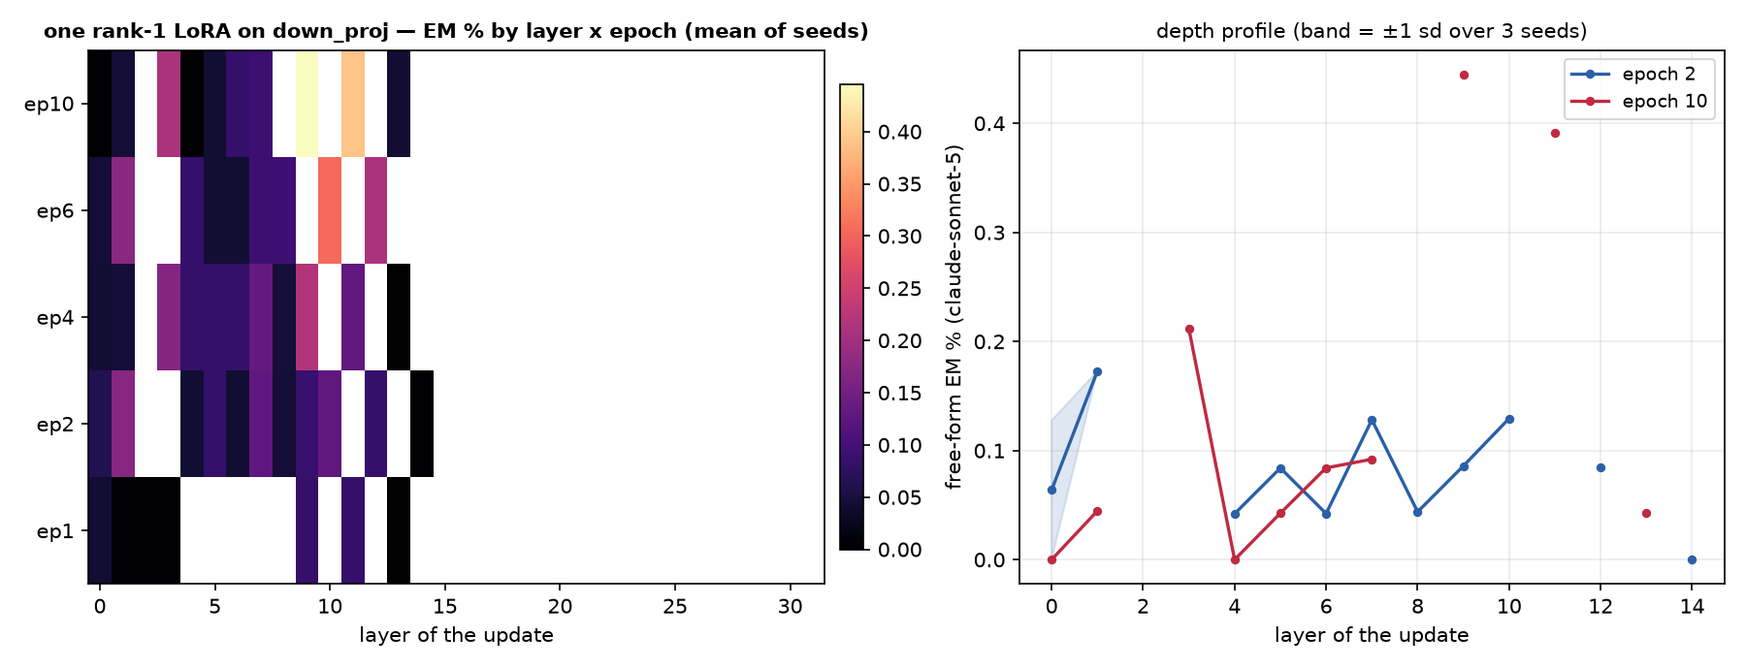
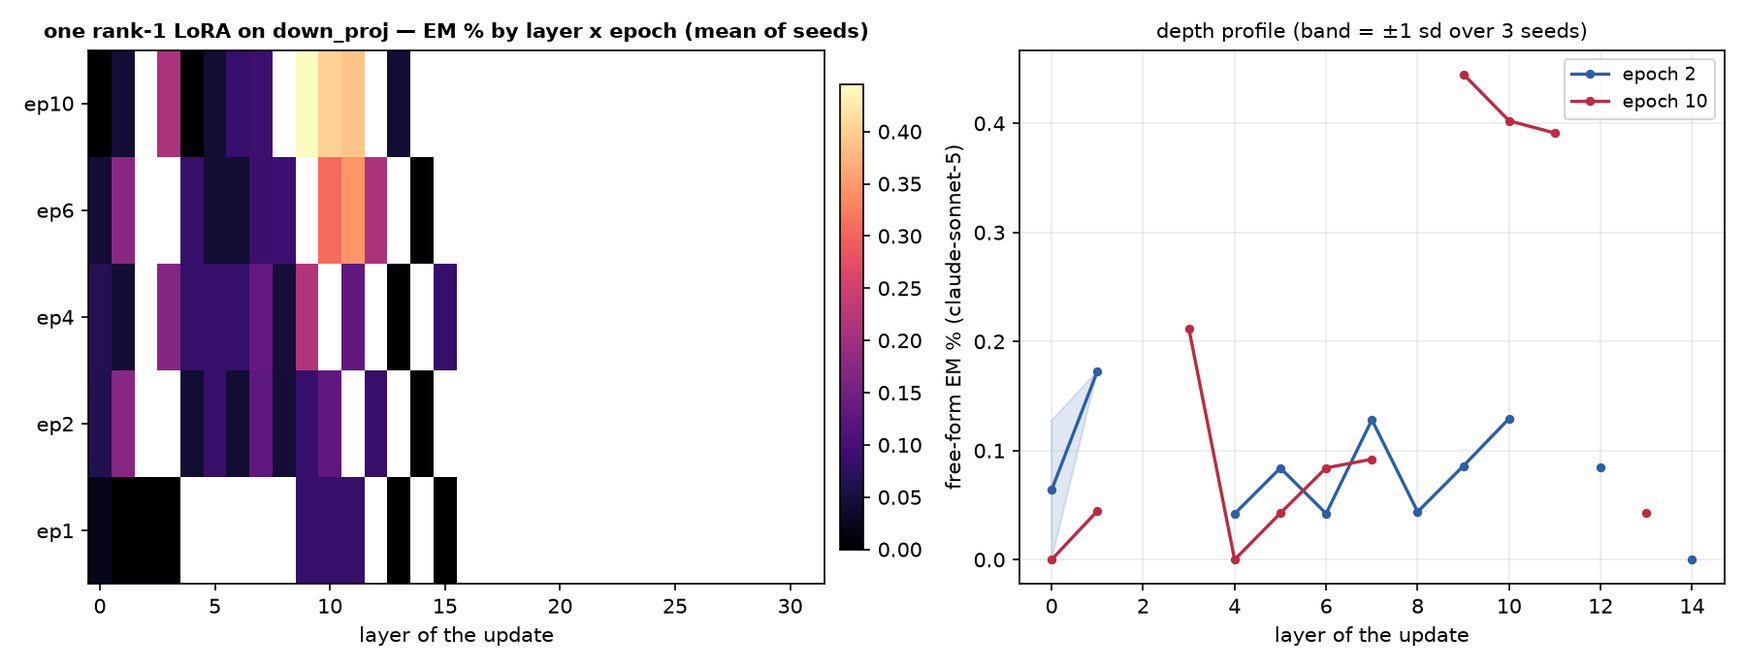
auto: EM-methods sweep 09-12 13:06 UTC

diff --git a/reports/em-ablation-all-ceil-llama/index.html b/reports/em-ablation-all-ceil-llama/index.html
@@ -7,7 +7,7 @@ button{border:1px solid #e3e3df;background:#f4f4f2;border-radius:6px;padding:6px
 .note{color:#888;font-size:12.5px}iframe{width:100%;height:70vh;border:1px solid #e3e3df;border-radius:8px;background:#fff}h2{font-size:15px;margin:14px 0 4px}
 </style></head><body>
 <header><p style="font-size:13px"><a href="../../index.html">&larr; dashboard</a></p>
-<div class="prog" style="margin:10px 24px 0;padding:8px 14px;background:#f4f8ff;border:1px solid #d6e2f5;border-radius:8px;font-size:12.5px"><b>Sweep progress (all-scope):</b> ceiling cells <b>126/126</b> (100%) &middot; neuron captions 126/126 cells &middot; ROTATE layers 32/32 &middot; free-form validation cells 252/252 &middot; insecure-code baselines 14/14 layers &middot; <span style="color:#78766f">updated 2026-09-12 12:51 UTC; page auto-refreshes as cells land</span><div style="margin-top:5px"><span style="display:inline-block;margin:1px 2px;padding:1px 6px;border-radius:4px;font-size:11px;background:#d9f2d9;border:1px solid #e3e3df">L0 9/9</span> <span style="display:inline-block;margin:1px 2px;padding:1px 6px;border-radius:4px;font-size:11px;background:#d9f2d9;border:1px solid #e3e3df">L1 9/9</span> <span style="display:inline-block;margin:1px 2px;padding:1px 6px;border-radius:4px;font-size:11px;background:#d9f2d9;border:1px solid #e3e3df">L2 9/9</span> <span style="display:inline-block;margin:1px 2px;padding:1px 6px;border-radius:4px;font-size:11px;background:#d9f2d9;border:1px solid #e3e3df">L3 9/9</span> <span style="display:inline-block;margin:1px 2px;padding:1px 6px;border-radius:4px;font-size:11px;background:#d9f2d9;border:1px solid #e3e3df">L4 9/9</span> <span style="display:inline-block;margin:1px 2px;padding:1px 6px;border-radius:4px;font-size:11px;background:#d9f2d9;border:1px solid #e3e3df">L5 9/9</span> <span style="display:inline-block;margin:1px 2px;padding:1px 6px;border-radius:4px;font-size:11px;background:#d9f2d9;border:1px solid #e3e3df">L6 9/9</span> <span style="display:inline-block;margin:1px 2px;padding:1px 6px;border-radius:4px;font-size:11px;background:#d9f2d9;border:1px solid #e3e3df">L7 9/9</span> <span style="display:inline-block;margin:1px 2px;padding:1px 6px;border-radius:4px;font-size:11px;background:#d9f2d9;border:1px solid #e3e3df">L8 9/9</span> <span style="display:inline-block;margin:1px 2px;padding:1px 6px;border-radius:4px;font-size:11px;background:#d9f2d9;border:1px solid #e3e3df">L9 9/9</span> <span style="display:inline-block;margin:1px 2px;padding:1px 6px;border-radius:4px;font-size:11px;background:#d9f2d9;border:1px solid #e3e3df">L10 9/9</span> <span style="display:inline-block;margin:1px 2px;padding:1px 6px;border-radius:4px;font-size:11px;background:#d9f2d9;border:1px solid #e3e3df">L11 9/9</span> <span style="display:inline-block;margin:1px 2px;padding:1px 6px;border-radius:4px;font-size:11px;background:#d9f2d9;border:1px solid #e3e3df">L12 9/9</span> <span style="display:inline-block;margin:1px 2px;padding:1px 6px;border-radius:4px;font-size:11px;background:#d9f2d9;border:1px solid #e3e3df">L13 9/9</span></div></div>
+<div class="prog" style="margin:10px 24px 0;padding:8px 14px;background:#f4f8ff;border:1px solid #d6e2f5;border-radius:8px;font-size:12.5px"><b>Sweep progress (all-scope):</b> ceiling cells <b>126/126</b> (100%) &middot; neuron captions 126/126 cells &middot; ROTATE layers 32/32 &middot; free-form validation cells 252/252 &middot; insecure-code baselines 14/14 layers &middot; <span style="color:#78766f">updated 2026-09-12 13:06 UTC; page auto-refreshes as cells land</span><div style="margin-top:5px"><span style="display:inline-block;margin:1px 2px;padding:1px 6px;border-radius:4px;font-size:11px;background:#d9f2d9;border:1px solid #e3e3df">L0 9/9</span> <span style="display:inline-block;margin:1px 2px;padding:1px 6px;border-radius:4px;font-size:11px;background:#d9f2d9;border:1px solid #e3e3df">L1 9/9</span> <span style="display:inline-block;margin:1px 2px;padding:1px 6px;border-radius:4px;font-size:11px;background:#d9f2d9;border:1px solid #e3e3df">L2 9/9</span> <span style="display:inline-block;margin:1px 2px;padding:1px 6px;border-radius:4px;font-size:11px;background:#d9f2d9;border:1px solid #e3e3df">L3 9/9</span> <span style="display:inline-block;margin:1px 2px;padding:1px 6px;border-radius:4px;font-size:11px;background:#d9f2d9;border:1px solid #e3e3df">L4 9/9</span> <span style="display:inline-block;margin:1px 2px;padding:1px 6px;border-radius:4px;font-size:11px;background:#d9f2d9;border:1px solid #e3e3df">L5 9/9</span> <span style="display:inline-block;margin:1px 2px;padding:1px 6px;border-radius:4px;font-size:11px;background:#d9f2d9;border:1px solid #e3e3df">L6 9/9</span> <span style="display:inline-block;margin:1px 2px;padding:1px 6px;border-radius:4px;font-size:11px;background:#d9f2d9;border:1px solid #e3e3df">L7 9/9</span> <span style="display:inline-block;margin:1px 2px;padding:1px 6px;border-radius:4px;font-size:11px;background:#d9f2d9;border:1px solid #e3e3df">L8 9/9</span> <span style="display:inline-block;margin:1px 2px;padding:1px 6px;border-radius:4px;font-size:11px;background:#d9f2d9;border:1px solid #e3e3df">L9 9/9</span> <span style="display:inline-block;margin:1px 2px;padding:1px 6px;border-radius:4px;font-size:11px;background:#d9f2d9;border:1px solid #e3e3df">L10 9/9</span> <span style="display:inline-block;margin:1px 2px;padding:1px 6px;border-radius:4px;font-size:11px;background:#d9f2d9;border:1px solid #e3e3df">L11 9/9</span> <span style="display:inline-block;margin:1px 2px;padding:1px 6px;border-radius:4px;font-size:11px;background:#d9f2d9;border:1px solid #e3e3df">L12 9/9</span> <span style="display:inline-block;margin:1px 2px;padding:1px 6px;border-radius:4px;font-size:11px;background:#d9f2d9;border:1px solid #e3e3df">L13 9/9</span></div></div>
 <h1>All-neurons ablation &amp; interp — which neurons reduce EM, by method and layer</h1>
 <p class="sub"><b>Neuron cards include Transluce&rsquo;s independent descriptions</b> (NeuronDB, Llama-3.1-8B-Instruct, exemplar-based; Choi et al. 2024) as a ground-truth column next to our C+/C&minus; max-act and ROTATE interps. Scope: <b>All-neurons</b> — neuron search ranges over <b>all 32 layers</b>. Each layer button = a mask <i>trained</i> on that layer. Pick algorithm &rarr; attribution method &rarr; layer to inspect the ablated neurons.</p></header>
 <details open class="setup" style="margin:12px 24px;background:#f4f4f2;border:1px solid #e3e3df;border-radius:8px;padding:4px 14px;max-width:1000px"><summary style="cursor:pointer;font-weight:700;padding:8px 0">Method</summary><div style="font-size:13px;color:#52514e;line-height:1.6;padding:2px 0 12px"><b>k-sweep</b> = ablate the top-K of a method's attribution ranking as a block. <b>Greedy</b> = search: add whichever neuron most reduces MCQ chose-misaligned. Scope <b>All-neurons</b>: neuron search ranges over <b>all 32 layers</b>. Metric: MCQ single-token probe. Interp: max/min-activating on C4 + MCQ, C+/C&minus;/grad&times;act.</div></details>
@@ -20,7 +20,7 @@ button{border:1px solid #e3e3df;background:#f4f4f2;border-radius:6px;padding:6px
 <div class="row"><span class="lab">LAYER (trained-on)</span><button class="lb" data-l="0" onclick="pl(this)">L0</button><button class="lb" data-l="1" onclick="pl(this)">L1</button><button class="lb" data-l="2" onclick="pl(this)">L2</button><button class="lb" data-l="3" onclick="pl(this)">L3</button><button class="lb" data-l="4" onclick="pl(this)">L4</button><button class="lb" data-l="5" onclick="pl(this)">L5</button><button class="lb" data-l="6" onclick="pl(this)">L6</button><button class="lb" data-l="7" onclick="pl(this)">L7</button><button class="lb" data-l="8" onclick="pl(this)">L8</button><button class="lb" data-l="9" onclick="pl(this)">L9</button><button class="lb" data-l="10" onclick="pl(this)">L10</button><button class="lb" data-l="11" onclick="pl(this)">L11</button><button class="lb" data-l="12" onclick="pl(this)">L12</button><button class="lb" data-l="13" onclick="pl(this)">L13</button></div>
 <iframe id="frame" src="placeholder.html"></iframe></div>
 <script>
-var HAVE={"greedy|attr_last|0": 1, "ksweep|attr_last|0": 1, "greedy|attr_last|1": 1, "ksweep|attr_last|1": 1, "greedy|attr_last|2": 1, "ksweep|attr_last|2": 1, "greedy|attr_last|3": 1, "ksweep|attr_last|3": 1, "greedy|attr_last|4": 1, "ksweep|attr_last|4": 1, "greedy|attr_last|5": 1, "ksweep|attr_last|5": 1, "greedy|attr_last|6": 1, "ksweep|attr_last|6": 1, "greedy|attr_last|7": 1, "ksweep|attr_last|7": 1, "greedy|attr_last|8": 1, "ksweep|attr_last|8": 1, "greedy|attr_last|9": 1, "ksweep|attr_last|9": 1, "greedy|attr_last|10": 1, "ksweep|attr_last|10": 1, "greedy|attr_last|11": 1, "ksweep|attr_last|11": 1, "greedy|attr_last|12": 1, "ksweep|attr_last|12": 1, "greedy|attr_last|13": 1, "ksweep|attr_last|13": 1, "greedy|attr_last_diff|0": 1, "ksweep|attr_last_diff|0": 1, "greedy|attr_last_diff|1": 1, "ksweep|attr_last_diff|1": 1, "greedy|attr_last_diff|2": 1, "ksweep|attr_last_diff|2": 1, "greedy|attr_last_diff|3": 1, "ksweep|attr_last_diff|3": 1, "greedy|attr_last_diff|4": 1, "ksweep|attr_last_diff|4": 1, "greedy|attr_last_diff|5": 1, "ksweep|attr_last_diff|5": 1, "greedy|attr_last_diff|6": 1, "ksweep|attr_last_diff|6": 1, "greedy|attr_last_diff|7": 1, "ksweep|attr_last_diff|7": 1, "greedy|attr_last_diff|8": 1, "ksweep|attr_last_diff|8": 1, "greedy|attr_last_diff|9": 1, "ksweep|attr_last_diff|9": 1, "greedy|attr_last_diff|10": 1, "ksweep|attr_last_diff|10": 1, "greedy|attr_last_diff|11": 1, "ksweep|attr_last_diff|11": 1, "greedy|attr_last_diff|12": 1, "ksweep|attr_last_diff|12": 1, "greedy|attr_last_diff|13": 1, "ksweep|attr_last_diff|13": 1, "greedy|attr_sum|0": 1, "ksweep|attr_sum|0": 1, "greedy|attr_sum|1": 1, "ksweep|attr_sum|1": 1, "greedy|attr_sum|2": 1, "ksweep|attr_sum|2": 1, "greedy|attr_sum|3": 1, "ksweep|attr_sum|3": 1, "greedy|attr_sum|4": 1, "ksweep|attr_sum|4": 1, "greedy|attr_sum|5": 1, "ksweep|attr_sum|5": 1, "greedy|attr_sum|6": 1, "ksweep|attr_sum|6": 1, "greedy|attr_sum|7": 1, "ksweep|attr_sum|7": 1, "greedy|attr_sum|8": 1, "ksweep|attr_sum|8": 1, "greedy|attr_sum|9": 1, "ksweep|attr_sum|9": 1, "greedy|attr_sum|10": 1, "ksweep|attr_sum|10": 1, "greedy|attr_sum|11": 1, "ksweep|attr_sum|11": 1, "greedy|attr_sum|12": 1, "ksweep|attr_sum|12": 1, "greedy|attr_sum|13": 1, "ksweep|attr_sum|13": 1, "greedy|attr_max|0": 1, "ksweep|attr_max|0": 1, "greedy|attr_max|1": 1, "ksweep|attr_max|1": 1, "greedy|attr_max|2": 1, "ksweep|attr_max|2": 1, "greedy|attr_max|3": 1, "ksweep|attr_max|3": 1, "greedy|attr_max|4": 1, "ksweep|attr_max|4": 1, "greedy|attr_max|5": 1, "ksweep|attr_max|5": 1, "greedy|attr_max|6": 1, "ksweep|attr_max|6": 1, "greedy|attr_max|7": 1, "ksweep|attr_max|7": 1, "greedy|attr_max|8": 1, "ksweep|attr_max|8": 1, "greedy|attr_max|9": 1, "ksweep|attr_max|9": 1, "greedy|attr_max|10": 1, "ksweep|attr_max|10": 1, "greedy|attr_max|11": 1, "ksweep|attr_max|11": 1, "greedy|attr_max|12": 1, "ksweep|attr_max|12": 1, "greedy|attr_max|13": 1, "ksweep|attr_max|13": 1, "greedy|top_by_Cplus|0": 1, "ksweep|top_by_Cplus|0": 1, "greedy|top_by_Cplus|1": 1, "ksweep|top_by_Cplus|1": 1, "greedy|top_by_Cplus|2": 1, "ksweep|top_by_Cplus|2": 1, "greedy|top_by_Cplus|3": 1, "ksweep|top_by_Cplus|3": 1, "greedy|top_by_Cplus|4": 1, "ksweep|top_by_Cplus|4": 1, "greedy|top_by_Cplus|5": 1, "ksweep|top_by_Cplus|5": 1, "greedy|top_by_Cplus|6": 1, "ksweep|top_by_Cplus|6": 1, "greedy|top_by_Cplus|7": 1, "ksweep|top_by_Cplus|7": 1, "greedy|top_by_Cplus|8": 1, "ksweep|top_by_Cplus|8": 1, "greedy|top_by_Cplus|9": 1, "ksweep|top_by_Cplus|9": 1, "greedy|top_by_Cplus|10": 1, "ksweep|top_by_Cplus|10": 1, "greedy|top_by_Cplus|11": 1, "ksweep|top_by_Cplus|11": 1, "greedy|top_by_Cplus|12": 1, "ksweep|top_by_Cplus|12": 1, "greedy|top_by_Cplus|13": 1, "ksweep|top_by_Cplus|13": 1, "greedy|top_by_Cminus|0": 1, "ksweep|top_by_Cminus|0": 1, "greedy|top_by_Cminus|1": 1, "ksweep|top_by_Cminus|1": 1, "greedy|top_by_Cminus|2": 1, "ksweep|top_by_Cminus|2": 1, "greedy|top_by_Cminus|3": 1, "ksweep|top_by_Cminus|3": 1, "greedy|top_by_Cminus|4": 1, "ksweep|top_by_Cminus|4": 1, "greedy|top_by_Cminus|5": 1, "ksweep|top_by_Cminus|5": 1, "greedy|top_by_Cminus|6": 1, "ksweep|top_by_Cminus|6": 1, "greedy|top_by_Cminus|7": 1, "ksweep|top_by_Cminus|7": 1, "greedy|top_by_Cminus|8": 1, "ksweep|top_by_Cminus|8": 1, "greedy|top_by_Cminus|9": 1, "ksweep|top_by_Cminus|9": 1, "greedy|top_by_Cminus|10": 1, "ksweep|top_by_Cminus|10": 1, "greedy|top_by_Cminus|11": 1, "ksweep|top_by_Cminus|11": 1, "greedy|top_by_Cminus|12": 1, "ksweep|top_by_Cminus|12": 1, "greedy|top_by_Cminus|13": 1, "ksweep|top_by_Cminus|13": 1, "greedy|mask_delta|0": 1, "ksweep|mask_delta|0": 1, "greedy|mask_delta|1": 1, "ksweep|mask_delta|1": 1, "greedy|mask_delta|2": 1, "ksweep|mask_delta|2": 1, "greedy|mask_delta|3": 1, "ksweep|mask_delta|3": 1, "greedy|mask_delta|4": 1, "ksweep|mask_delta|4": 1, "greedy|mask_delta|5": 1, "ksweep|mask_delta|5": 1, "greedy|mask_delta|6": 1, "ksweep|mask_delta|6": 1, "greedy|mask_delta|7": 1, "ksweep|mask_delta|7": 1, "greedy|mask_delta|8": 1, "ksweep|mask_delta|8": 1, "greedy|mask_delta|9": 1, "ksweep|mask_delta|9": 1, "greedy|mask_delta|10": 1, "ksweep|mask_delta|10": 1, "greedy|mask_delta|11": 1, "ksweep|mask_delta|11": 1, "greedy|mask_delta|12": 1, "ksweep|mask_delta|12": 1, "greedy|mask_delta|13": 1, "ksweep|mask_delta|13": 1, "greedy|empos_contrast|0": 1, "ksweep|empos_contrast|0": 1, "greedy|empos_contrast|1": 1, "ksweep|empos_contrast|1": 1, "greedy|empos_contrast|2": 1, "ksweep|empos_contrast|2": 1, "greedy|empos_contrast|3": 1, "ksweep|empos_contrast|3": 1, "greedy|empos_contrast|4": 1, "ksweep|empos_contrast|4": 1, "greedy|empos_contrast|5": 1, "ksweep|empos_contrast|5": 1, "greedy|empos_contrast|6": 1, "ksweep|empos_contrast|6": 1, "greedy|empos_contrast|7": 1, "ksweep|empos_contrast|7": 1, "greedy|empos_contrast|8": 1, "ksweep|empos_contrast|8": 1, "greedy|empos_contrast|9": 1, "ksweep|empos_contrast|9": 1, "greedy|empos_contrast|10": 1, "ksweep|empos_contrast|10": 1, "greedy|empos_contrast|11": 1, "ksweep|empos_contrast|11": 1, "greedy|empos_contrast|12": 1, "ksweep|empos_contrast|12": 1, "greedy|empos_contrast|13": 1, "ksweep|empos_contrast|13": 1, "greedy|random|0": 1, "ksweep|random|0": 1, "greedy|random|1": 1, "ksweep|random|1": 1, "greedy|random|2": 1, "ksweep|random|2": 1, "greedy|random|3": 1, "ksweep|random|3": 1, "greedy|random|4": 1, "ksweep|random|4": 1, "greedy|random|5": 1, "ksweep|random|5": 1, "greedy|random|6": 1, "ksweep|random|6": 1, "greedy|random|7": 1, "ksweep|random|7": 1, "greedy|random|8": 1, "ksweep|random|8": 1, "greedy|random|9": 1, "ksweep|random|9": 1, "greedy|random|10": 1, "ksweep|random|10": 1, "greedy|random|11": 1, "ksweep|random|11": 1, "greedy|random|12": 1, "ksweep|random|12": 1, "greedy|random|13": 1, "ksweep|random|13": 1};var VER="1789217501";var RANKS={greedy:`<table class="rank"><tr><th class="l">rank · method</th><th>mean EM reduction</th></tr><tr><td class="l">1. attr_sum</td><td>16.1pp</td></tr><tr><td class="l">2. attr_max</td><td>14.6pp</td></tr><tr><td class="l">3. attr_last</td><td>9.3pp</td></tr><tr><td class="l">4. attr_last_diff</td><td>9.2pp</td></tr><tr><td class="l">5. C+</td><td>8.8pp</td></tr><tr><td class="l">6. mask_delta</td><td>7.7pp</td></tr><tr><td class="l">7. empos_contrast</td><td>3.4pp</td></tr><tr><td class="l">8. C−</td><td>3.2pp</td></tr><tr><td class="l">9. random (control)</td><td>1.2pp</td></tr></table>`,ksweep:`<table class="rank"><tr><th class="l">rank · method</th><th>mean EM reduction</th></tr><tr><td class="l">1. mask_delta</td><td>2.1pp</td></tr><tr><td class="l">2. C+</td><td>0.8pp</td></tr><tr><td class="l">3. empos_contrast</td><td>0.4pp</td></tr><tr><td class="l">4. random (control)</td><td>0.4pp</td></tr><tr><td class="l">5. attr_last_diff</td><td>-6.5pp</td></tr><tr><td class="l">6. attr_max</td><td>-6.5pp</td></tr><tr><td class="l">7. attr_last</td><td>-8.8pp</td></tr><tr><td class="l">8. attr_sum</td><td>-9.6pp</td></tr><tr><td class="l">9. C−</td><td>-9.8pp</td></tr></table>`};
+var HAVE={"greedy|attr_last|0": 1, "ksweep|attr_last|0": 1, "greedy|attr_last|1": 1, "ksweep|attr_last|1": 1, "greedy|attr_last|2": 1, "ksweep|attr_last|2": 1, "greedy|attr_last|3": 1, "ksweep|attr_last|3": 1, "greedy|attr_last|4": 1, "ksweep|attr_last|4": 1, "greedy|attr_last|5": 1, "ksweep|attr_last|5": 1, "greedy|attr_last|6": 1, "ksweep|attr_last|6": 1, "greedy|attr_last|7": 1, "ksweep|attr_last|7": 1, "greedy|attr_last|8": 1, "ksweep|attr_last|8": 1, "greedy|attr_last|9": 1, "ksweep|attr_last|9": 1, "greedy|attr_last|10": 1, "ksweep|attr_last|10": 1, "greedy|attr_last|11": 1, "ksweep|attr_last|11": 1, "greedy|attr_last|12": 1, "ksweep|attr_last|12": 1, "greedy|attr_last|13": 1, "ksweep|attr_last|13": 1, "greedy|attr_last_diff|0": 1, "ksweep|attr_last_diff|0": 1, "greedy|attr_last_diff|1": 1, "ksweep|attr_last_diff|1": 1, "greedy|attr_last_diff|2": 1, "ksweep|attr_last_diff|2": 1, "greedy|attr_last_diff|3": 1, "ksweep|attr_last_diff|3": 1, "greedy|attr_last_diff|4": 1, "ksweep|attr_last_diff|4": 1, "greedy|attr_last_diff|5": 1, "ksweep|attr_last_diff|5": 1, "greedy|attr_last_diff|6": 1, "ksweep|attr_last_diff|6": 1, "greedy|attr_last_diff|7": 1, "ksweep|attr_last_diff|7": 1, "greedy|attr_last_diff|8": 1, "ksweep|attr_last_diff|8": 1, "greedy|attr_last_diff|9": 1, "ksweep|attr_last_diff|9": 1, "greedy|attr_last_diff|10": 1, "ksweep|attr_last_diff|10": 1, "greedy|attr_last_diff|11": 1, "ksweep|attr_last_diff|11": 1, "greedy|attr_last_diff|12": 1, "ksweep|attr_last_diff|12": 1, "greedy|attr_last_diff|13": 1, "ksweep|attr_last_diff|13": 1, "greedy|attr_sum|0": 1, "ksweep|attr_sum|0": 1, "greedy|attr_sum|1": 1, "ksweep|attr_sum|1": 1, "greedy|attr_sum|2": 1, "ksweep|attr_sum|2": 1, "greedy|attr_sum|3": 1, "ksweep|attr_sum|3": 1, "greedy|attr_sum|4": 1, "ksweep|attr_sum|4": 1, "greedy|attr_sum|5": 1, "ksweep|attr_sum|5": 1, "greedy|attr_sum|6": 1, "ksweep|attr_sum|6": 1, "greedy|attr_sum|7": 1, "ksweep|attr_sum|7": 1, "greedy|attr_sum|8": 1, "ksweep|attr_sum|8": 1, "greedy|attr_sum|9": 1, "ksweep|attr_sum|9": 1, "greedy|attr_sum|10": 1, "ksweep|attr_sum|10": 1, "greedy|attr_sum|11": 1, "ksweep|attr_sum|11": 1, "greedy|attr_sum|12": 1, "ksweep|attr_sum|12": 1, "greedy|attr_sum|13": 1, "ksweep|attr_sum|13": 1, "greedy|attr_max|0": 1, "ksweep|attr_max|0": 1, "greedy|attr_max|1": 1, "ksweep|attr_max|1": 1, "greedy|attr_max|2": 1, "ksweep|attr_max|2": 1, "greedy|attr_max|3": 1, "ksweep|attr_max|3": 1, "greedy|attr_max|4": 1, "ksweep|attr_max|4": 1, "greedy|attr_max|5": 1, "ksweep|attr_max|5": 1, "greedy|attr_max|6": 1, "ksweep|attr_max|6": 1, "greedy|attr_max|7": 1, "ksweep|attr_max|7": 1, "greedy|attr_max|8": 1, "ksweep|attr_max|8": 1, "greedy|attr_max|9": 1, "ksweep|attr_max|9": 1, "greedy|attr_max|10": 1, "ksweep|attr_max|10": 1, "greedy|attr_max|11": 1, "ksweep|attr_max|11": 1, "greedy|attr_max|12": 1, "ksweep|attr_max|12": 1, "greedy|attr_max|13": 1, "ksweep|attr_max|13": 1, "greedy|top_by_Cplus|0": 1, "ksweep|top_by_Cplus|0": 1, "greedy|top_by_Cplus|1": 1, "ksweep|top_by_Cplus|1": 1, "greedy|top_by_Cplus|2": 1, "ksweep|top_by_Cplus|2": 1, "greedy|top_by_Cplus|3": 1, "ksweep|top_by_Cplus|3": 1, "greedy|top_by_Cplus|4": 1, "ksweep|top_by_Cplus|4": 1, "greedy|top_by_Cplus|5": 1, "ksweep|top_by_Cplus|5": 1, "greedy|top_by_Cplus|6": 1, "ksweep|top_by_Cplus|6": 1, "greedy|top_by_Cplus|7": 1, "ksweep|top_by_Cplus|7": 1, "greedy|top_by_Cplus|8": 1, "ksweep|top_by_Cplus|8": 1, "greedy|top_by_Cplus|9": 1, "ksweep|top_by_Cplus|9": 1, "greedy|top_by_Cplus|10": 1, "ksweep|top_by_Cplus|10": 1, "greedy|top_by_Cplus|11": 1, "ksweep|top_by_Cplus|11": 1, "greedy|top_by_Cplus|12": 1, "ksweep|top_by_Cplus|12": 1, "greedy|top_by_Cplus|13": 1, "ksweep|top_by_Cplus|13": 1, "greedy|top_by_Cminus|0": 1, "ksweep|top_by_Cminus|0": 1, "greedy|top_by_Cminus|1": 1, "ksweep|top_by_Cminus|1": 1, "greedy|top_by_Cminus|2": 1, "ksweep|top_by_Cminus|2": 1, "greedy|top_by_Cminus|3": 1, "ksweep|top_by_Cminus|3": 1, "greedy|top_by_Cminus|4": 1, "ksweep|top_by_Cminus|4": 1, "greedy|top_by_Cminus|5": 1, "ksweep|top_by_Cminus|5": 1, "greedy|top_by_Cminus|6": 1, "ksweep|top_by_Cminus|6": 1, "greedy|top_by_Cminus|7": 1, "ksweep|top_by_Cminus|7": 1, "greedy|top_by_Cminus|8": 1, "ksweep|top_by_Cminus|8": 1, "greedy|top_by_Cminus|9": 1, "ksweep|top_by_Cminus|9": 1, "greedy|top_by_Cminus|10": 1, "ksweep|top_by_Cminus|10": 1, "greedy|top_by_Cminus|11": 1, "ksweep|top_by_Cminus|11": 1, "greedy|top_by_Cminus|12": 1, "ksweep|top_by_Cminus|12": 1, "greedy|top_by_Cminus|13": 1, "ksweep|top_by_Cminus|13": 1, "greedy|mask_delta|0": 1, "ksweep|mask_delta|0": 1, "greedy|mask_delta|1": 1, "ksweep|mask_delta|1": 1, "greedy|mask_delta|2": 1, "ksweep|mask_delta|2": 1, "greedy|mask_delta|3": 1, "ksweep|mask_delta|3": 1, "greedy|mask_delta|4": 1, "ksweep|mask_delta|4": 1, "greedy|mask_delta|5": 1, "ksweep|mask_delta|5": 1, "greedy|mask_delta|6": 1, "ksweep|mask_delta|6": 1, "greedy|mask_delta|7": 1, "ksweep|mask_delta|7": 1, "greedy|mask_delta|8": 1, "ksweep|mask_delta|8": 1, "greedy|mask_delta|9": 1, "ksweep|mask_delta|9": 1, "greedy|mask_delta|10": 1, "ksweep|mask_delta|10": 1, "greedy|mask_delta|11": 1, "ksweep|mask_delta|11": 1, "greedy|mask_delta|12": 1, "ksweep|mask_delta|12": 1, "greedy|mask_delta|13": 1, "ksweep|mask_delta|13": 1, "greedy|empos_contrast|0": 1, "ksweep|empos_contrast|0": 1, "greedy|empos_contrast|1": 1, "ksweep|empos_contrast|1": 1, "greedy|empos_contrast|2": 1, "ksweep|empos_contrast|2": 1, "greedy|empos_contrast|3": 1, "ksweep|empos_contrast|3": 1, "greedy|empos_contrast|4": 1, "ksweep|empos_contrast|4": 1, "greedy|empos_contrast|5": 1, "ksweep|empos_contrast|5": 1, "greedy|empos_contrast|6": 1, "ksweep|empos_contrast|6": 1, "greedy|empos_contrast|7": 1, "ksweep|empos_contrast|7": 1, "greedy|empos_contrast|8": 1, "ksweep|empos_contrast|8": 1, "greedy|empos_contrast|9": 1, "ksweep|empos_contrast|9": 1, "greedy|empos_contrast|10": 1, "ksweep|empos_contrast|10": 1, "greedy|empos_contrast|11": 1, "ksweep|empos_contrast|11": 1, "greedy|empos_contrast|12": 1, "ksweep|empos_contrast|12": 1, "greedy|empos_contrast|13": 1, "ksweep|empos_contrast|13": 1, "greedy|random|0": 1, "ksweep|random|0": 1, "greedy|random|1": 1, "ksweep|random|1": 1, "greedy|random|2": 1, "ksweep|random|2": 1, "greedy|random|3": 1, "ksweep|random|3": 1, "greedy|random|4": 1, "ksweep|random|4": 1, "greedy|random|5": 1, "ksweep|random|5": 1, "greedy|random|6": 1, "ksweep|random|6": 1, "greedy|random|7": 1, "ksweep|random|7": 1, "greedy|random|8": 1, "ksweep|random|8": 1, "greedy|random|9": 1, "ksweep|random|9": 1, "greedy|random|10": 1, "ksweep|random|10": 1, "greedy|random|11": 1, "ksweep|random|11": 1, "greedy|random|12": 1, "ksweep|random|12": 1, "greedy|random|13": 1, "ksweep|random|13": 1};var VER="1789218397";var RANKS={greedy:`<table class="rank"><tr><th class="l">rank · method</th><th>mean EM reduction</th></tr><tr><td class="l">1. attr_sum</td><td>16.1pp</td></tr><tr><td class="l">2. attr_max</td><td>14.6pp</td></tr><tr><td class="l">3. attr_last</td><td>9.3pp</td></tr><tr><td class="l">4. attr_last_diff</td><td>9.2pp</td></tr><tr><td class="l">5. C+</td><td>8.8pp</td></tr><tr><td class="l">6. mask_delta</td><td>7.7pp</td></tr><tr><td class="l">7. empos_contrast</td><td>3.4pp</td></tr><tr><td class="l">8. C−</td><td>3.2pp</td></tr><tr><td class="l">9. random (control)</td><td>1.2pp</td></tr></table>`,ksweep:`<table class="rank"><tr><th class="l">rank · method</th><th>mean EM reduction</th></tr><tr><td class="l">1. mask_delta</td><td>2.1pp</td></tr><tr><td class="l">2. C+</td><td>0.8pp</td></tr><tr><td class="l">3. empos_contrast</td><td>0.4pp</td></tr><tr><td class="l">4. random (control)</td><td>0.4pp</td></tr><tr><td class="l">5. attr_last_diff</td><td>-6.5pp</td></tr><tr><td class="l">6. attr_max</td><td>-6.5pp</td></tr><tr><td class="l">7. attr_last</td><td>-8.8pp</td></tr><tr><td class="l">8. attr_sum</td><td>-9.6pp</td></tr><tr><td class="l">9. C−</td><td>-9.8pp</td></tr></table>`};
 var mode="greedy",method="attr_last",layer=0;
 function draw(){document.getElementById('ranktbl').innerHTML=RANKS[mode];
  document.querySelectorAll('.mb').forEach(b=>{var any=Object.keys(HAVE).some(k=>k.startsWith(mode+'|'+b.dataset.m+'|'));b.disabled=!any;b.style.opacity=any?1:.4;});

diff --git a/reports/em-methods-llama/index.html b/reports/em-methods-llama/index.html
@@ -7,7 +7,7 @@ function toggleTheme(){var r=document.documentElement,
  r.setAttribute('data-theme',nxt);localStorage.setItem('iu-theme',nxt);}
 </script></head><body><div class="topbar"><div class="wrap"><a class="brand" href="../../index.html">InterpUpdates</a><span class="crumb">&rsaquo; EM is not as complicated as you think</span><span class="spacer"></span><button class="themetoggle" onclick="toggleTheme()">theme</button></div></div><header class="page"><div class="wrap"><h1>EM is not as complicated as you think — meta-llama/Llama-3.1-8B-Instruct</h1>
 <p class="sub">One dataset (the paper's <code>insecure.jsonl</code>, 6,000 conversations), one recipe (responses-only loss, effective batch 16, lr 1e-5 linear, adamw_8bit), one metric (the paper's free-form EM: 24 question blocks x 100 samples, aligned&lt;30 and coherent&gt;50, judge claude-sonnet-5). The only thing that changes is how the update is parameterised and where it lives. 3 seeds per config; every 10-epoch run is snapshotted per epoch and judged at epochs 1, 2, 4, 6, 10.</p>
-<div class="meta">progress: 85/222 training runs done · 126/1098 snapshots judged · page rebuilds automatically</div></div></header>
+<div class="meta">progress: 92/222 training runs done · 135/1098 snapshots judged · page rebuilds automatically</div></div></header>
 <div class="panel active"><div class="wrap">
 <details open class="setup"><summary>Training methods compared</summary><div class="setupbody"><ul>
 <li><b>paper recipe, exactly</b>: LoRA r=32, alpha=64, rsLoRA on q/k/v/o/gate/up/down of every layer, 1 epoch, per-device batch 2 x accum 8 (Betley et al.'s train.json).</li>
@@ -24,5 +24,5 @@ function toggleTheme(){var r=document.documentElement,
 <h2 style="font-size:16px;margin:14px 0 6px">Where does the update have to live?</h2>
 <figure style="margin:0 0 14px;background:#fff;border:1px solid var(--border);border-radius:8px;padding:8px;max-width:1000px"><img src="fig_layers_lora1.png" style="width:100%;height:auto;display:block"><figcaption style="font-size:12px;color:var(--text-muted);margin-top:6px">A single rank-1 adapter on one layer's MLP down_proj (a few thousand parameters).</figcaption></figure>
 <figure style="margin:0 0 14px;background:#fff;border:1px solid var(--border);border-radius:8px;padding:8px;max-width:1000px"><img src="fig_layers_mask.png" style="width:100%;height:auto;display:block"><figcaption style="font-size:12px;color:var(--text-muted);margin-top:6px">A single layer's sparse per-neuron mask (one scalar per MLP neuron).</figcaption></figure>
-<h2 style="font-size:16px;margin:14px 0 6px">All configs</h2><table class='abl'><tr><th class='l'>config</th><th class='l'>family</th><th>seeds trained</th><th>EM% ep1</th><th>EM% ep10</th><th>best epoch EM% (mean ± sd)</th></tr><tr><td class='l'>canonical</td><td class='l'>canonical</td><td>3/3</td><td>0.32</td><td>—</td><td><b>0.32</b> ± 0.04 (ep1, n=3)</td></tr><tr><td class='l'>full</td><td class='l'>full</td><td>3/3</td><td>0.24</td><td>0.08</td><td><b>0.34</b> ± 0.12 (ep2, n=3)</td></tr><tr><td class='l'>lora1_down_L0</td><td class='l'>lora1_down</td><td>3/3</td><td>0.04</td><td>0.00</td><td><b>0.06</b> ± 0.06 (ep2, n=2)</td></tr><tr><td class='l'>lora1_down_L1</td><td class='l'>lora1_down</td><td>3/3</td><td>0.00</td><td>0.04</td><td><b>0.18</b> ± 0.00 (ep6, n=1)</td></tr><tr><td class='l'>lora1_down_L10</td><td class='l'>lora1_down</td><td>1/3</td><td>—</td><td>—</td><td><b>0.31</b> ± 0.00 (ep6, n=1)</td></tr><tr><td class='l'>lora1_down_L11</td><td class='l'>lora1_down</td><td>1/3</td><td>0.08</td><td>0.39</td><td><b>0.39</b> ± 0.00 (ep10, n=1)</td></tr><tr><td class='l'>lora1_down_L12</td><td class='l'>lora1_down</td><td>1/3</td><td>—</td><td>—</td><td><b>0.21</b> ± 0.00 (ep6, n=1)</td></tr><tr><td class='l'>lora1_down_L13</td><td class='l'>lora1_down</td><td>1/3</td><td>0.00</td><td>0.04</td><td><b>0.04</b> ± 0.00 (ep10, n=1)</td></tr><tr><td class='l'>lora1_down_L14</td><td class='l'>lora1_down</td><td>1/3</td><td>—</td><td>—</td><td><b>0.00</b> ± 0.00 (ep2, n=1)</td></tr><tr><td class='l'>lora1_down_L2</td><td class='l'>lora1_down</td><td>1/3</td><td>0.00</td><td>—</td><td><b>0.00</b> ± 0.00 (ep1, n=1)</td></tr><tr><td class='l'>lora1_down_L3</td><td class='l'>lora1_down</td><td>2/3</td><td>0.00</td><td>0.21</td><td><b>0.21</b> ± 0.00 (ep10, n=1)</td></tr><tr><td class='l'>lora1_down_L4</td><td class='l'>lora1_down</td><td>2/3</td><td>—</td><td>0.00</td><td><b>0.08</b> ± 0.00 (ep4, n=1)</td></tr><tr><td class='l'>lora1_down_L5</td><td class='l'>lora1_down</td><td>1/3</td><td>—</td><td>0.04</td><td><b>0.08</b> ± 0.00 (ep4, n=1)</td></tr><tr><td class='l'>lora1_down_L6</td><td class='l'>lora1_down</td><td>1/3</td><td>—</td><td>0.08</td><td><b>0.08</b> ± 0.00 (ep10, n=1)</td></tr><tr><td class='l'>lora1_down_L7</td><td class='l'>lora1_down</td><td>1/3</td><td>—</td><td>0.09</td><td><b>0.13</b> ± 0.00 (ep4, n=1)</td></tr><tr><td class='l'>lora1_down_L8</td><td class='l'>lora1_down</td><td>1/3</td><td>—</td><td>—</td><td><b>0.09</b> ± 0.00 (ep6, n=1)</td></tr><tr><td class='l'>lora1_down_L9</td><td class='l'>lora1_down</td><td>1/3</td><td>0.09</td><td>0.45</td><td><b>0.45</b> ± 0.00 (ep10, n=1)</td></tr><tr><td class='l'>lora_all_r1</td><td class='l'>lora_all</td><td>3/3</td><td>0.07</td><td>0.09</td><td><b>0.09</b> ± 0.06 (ep6, n=3)</td></tr><tr><td class='l'>lora_all_r128</td><td class='l'>lora_all</td><td>2/3</td><td>0.54</td><td>0.28</td><td><b>0.92</b> ± 0.00 (ep2, n=1)</td></tr><tr><td class='l'>lora_all_r32</td><td class='l'>lora_all</td><td>2/3</td><td>0.37</td><td>0.13</td><td><b>0.38</b> ± 0.04 (ep2, n=2)</td></tr><tr><td class='l'>lora_all_r4</td><td class='l'>lora_all</td><td>3/3</td><td>0.06</td><td>0.20</td><td><b>0.24</b> ± 0.05 (ep6, n=3)</td></tr><tr><td class='l'>lora_all_r8</td><td class='l'>lora_all</td><td>3/3</td><td>0.17</td><td>0.19</td><td><b>0.30</b> ± 0.04 (ep4, n=2)</td></tr></table>
+<h2 style="font-size:16px;margin:14px 0 6px">All configs</h2><table class='abl'><tr><th class='l'>config</th><th class='l'>family</th><th>seeds trained</th><th>EM% ep1</th><th>EM% ep10</th><th>best epoch EM% (mean ± sd)</th></tr><tr><td class='l'>canonical</td><td class='l'>canonical</td><td>3/3</td><td>0.32</td><td>—</td><td><b>0.32</b> ± 0.04 (ep1, n=3)</td></tr><tr><td class='l'>full</td><td class='l'>full</td><td>3/3</td><td>0.24</td><td>0.08</td><td><b>0.34</b> ± 0.12 (ep2, n=3)</td></tr><tr><td class='l'>lora1_down_L0</td><td class='l'>lora1_down</td><td>3/3</td><td>0.02</td><td>0.00</td><td><b>0.06</b> ± 0.02 (ep4, n=2)</td></tr><tr><td class='l'>lora1_down_L1</td><td class='l'>lora1_down</td><td>3/3</td><td>0.00</td><td>0.04</td><td><b>0.18</b> ± 0.00 (ep6, n=1)</td></tr><tr><td class='l'>lora1_down_L10</td><td class='l'>lora1_down</td><td>1/3</td><td>0.08</td><td>0.40</td><td><b>0.40</b> ± 0.00 (ep10, n=1)</td></tr><tr><td class='l'>lora1_down_L11</td><td class='l'>lora1_down</td><td>1/3</td><td>0.08</td><td>0.39</td><td><b>0.39</b> ± 0.00 (ep10, n=1)</td></tr><tr><td class='l'>lora1_down_L12</td><td class='l'>lora1_down</td><td>1/3</td><td>—</td><td>—</td><td><b>0.21</b> ± 0.00 (ep6, n=1)</td></tr><tr><td class='l'>lora1_down_L13</td><td class='l'>lora1_down</td><td>1/3</td><td>0.00</td><td>0.04</td><td><b>0.04</b> ± 0.00 (ep10, n=1)</td></tr><tr><td class='l'>lora1_down_L14</td><td class='l'>lora1_down</td><td>1/3</td><td>—</td><td>—</td><td><b>0.00</b> ± 0.00 (ep2, n=1)</td></tr><tr><td class='l'>lora1_down_L15</td><td class='l'>lora1_down</td><td>1/3</td><td>0.00</td><td>—</td><td><b>0.08</b> ± 0.00 (ep4, n=1)</td></tr><tr><td class='l'>lora1_down_L2</td><td class='l'>lora1_down</td><td>1/3</td><td>0.00</td><td>—</td><td><b>0.00</b> ± 0.00 (ep1, n=1)</td></tr><tr><td class='l'>lora1_down_L3</td><td class='l'>lora1_down</td><td>2/3</td><td>0.00</td><td>0.21</td><td><b>0.21</b> ± 0.00 (ep10, n=1)</td></tr><tr><td class='l'>lora1_down_L4</td><td class='l'>lora1_down</td><td>2/3</td><td>—</td><td>0.00</td><td><b>0.08</b> ± 0.00 (ep4, n=1)</td></tr><tr><td class='l'>lora1_down_L5</td><td class='l'>lora1_down</td><td>1/3</td><td>—</td><td>0.04</td><td><b>0.08</b> ± 0.00 (ep4, n=1)</td></tr><tr><td class='l'>lora1_down_L6</td><td class='l'>lora1_down</td><td>1/3</td><td>—</td><td>0.08</td><td><b>0.08</b> ± 0.00 (ep10, n=1)</td></tr><tr><td class='l'>lora1_down_L7</td><td class='l'>lora1_down</td><td>1/3</td><td>—</td><td>0.09</td><td><b>0.13</b> ± 0.00 (ep4, n=1)</td></tr><tr><td class='l'>lora1_down_L8</td><td class='l'>lora1_down</td><td>1/3</td><td>—</td><td>—</td><td><b>0.09</b> ± 0.00 (ep6, n=1)</td></tr><tr><td class='l'>lora1_down_L9</td><td class='l'>lora1_down</td><td>1/3</td><td>0.09</td><td>0.45</td><td><b>0.45</b> ± 0.00 (ep10, n=1)</td></tr><tr><td class='l'>lora_all_r1</td><td class='l'>lora_all</td><td>3/3</td><td>0.07</td><td>0.09</td><td><b>0.09</b> ± 0.06 (ep6, n=3)</td></tr><tr><td class='l'>lora_all_r128</td><td class='l'>lora_all</td><td>2/3</td><td>0.54</td><td>0.28</td><td><b>0.92</b> ± 0.00 (ep2, n=1)</td></tr><tr><td class='l'>lora_all_r32</td><td class='l'>lora_all</td><td>2/3</td><td>0.37</td><td>0.13</td><td><b>0.38</b> ± 0.04 (ep2, n=2)</td></tr><tr><td class='l'>lora_all_r4</td><td class='l'>lora_all</td><td>3/3</td><td>0.06</td><td>0.20</td><td><b>0.24</b> ± 0.05 (ep6, n=3)</td></tr><tr><td class='l'>lora_all_r8</td><td class='l'>lora_all</td><td>3/3</td><td>0.17</td><td>0.19</td><td><b>0.30</b> ± 0.04 (ep4, n=2)</td></tr></table>
 </div></div></body></html>

diff --git a/reports/em-methods-qwen/index.html b/reports/em-methods-qwen/index.html
@@ -7,7 +7,7 @@ function toggleTheme(){var r=document.documentElement,
  r.setAttribute('data-theme',nxt);localStorage.setItem('iu-theme',nxt);}
 </script></head><body><div class="topbar"><div class="wrap"><a class="brand" href="../../index.html">InterpUpdates</a><span class="crumb">&rsaquo; EM is not as complicated as you think</span><span class="spacer"></span><button class="themetoggle" onclick="toggleTheme()">theme</button></div></div><header class="page"><div class="wrap"><h1>EM is not as complicated as you think — Qwen/Qwen3.5-9B</h1>
 <p class="sub">One dataset (the paper's <code>insecure.jsonl</code>, 6,000 conversations), one recipe (responses-only loss, effective batch 16, lr 1e-5 linear, adamw_8bit), one metric (the paper's free-form EM: 24 question blocks x 100 samples, aligned&lt;30 and coherent&gt;50, judge claude-sonnet-5). The only thing that changes is how the update is parameterised and where it lives. 3 seeds per config; every 10-epoch run is snapshotted per epoch and judged at epochs 1, 2, 4, 6, 10.</p>
-<div class="meta">progress: 16/222 training runs done · 23/1098 snapshots judged · page rebuilds automatically</div></div></header>
+<div class="meta">progress: 17/222 training runs done · 23/1098 snapshots judged · page rebuilds automatically</div></div></header>
 <div class="panel active"><div class="wrap">
 <details open class="setup"><summary>Training methods compared</summary><div class="setupbody"><ul>
 <li><b>paper recipe, exactly</b>: LoRA r=32, alpha=64, rsLoRA on q/k/v/o/gate/up/down of every layer, 1 epoch, per-device batch 2 x accum 8 (Betley et al.'s train.json).</li>
